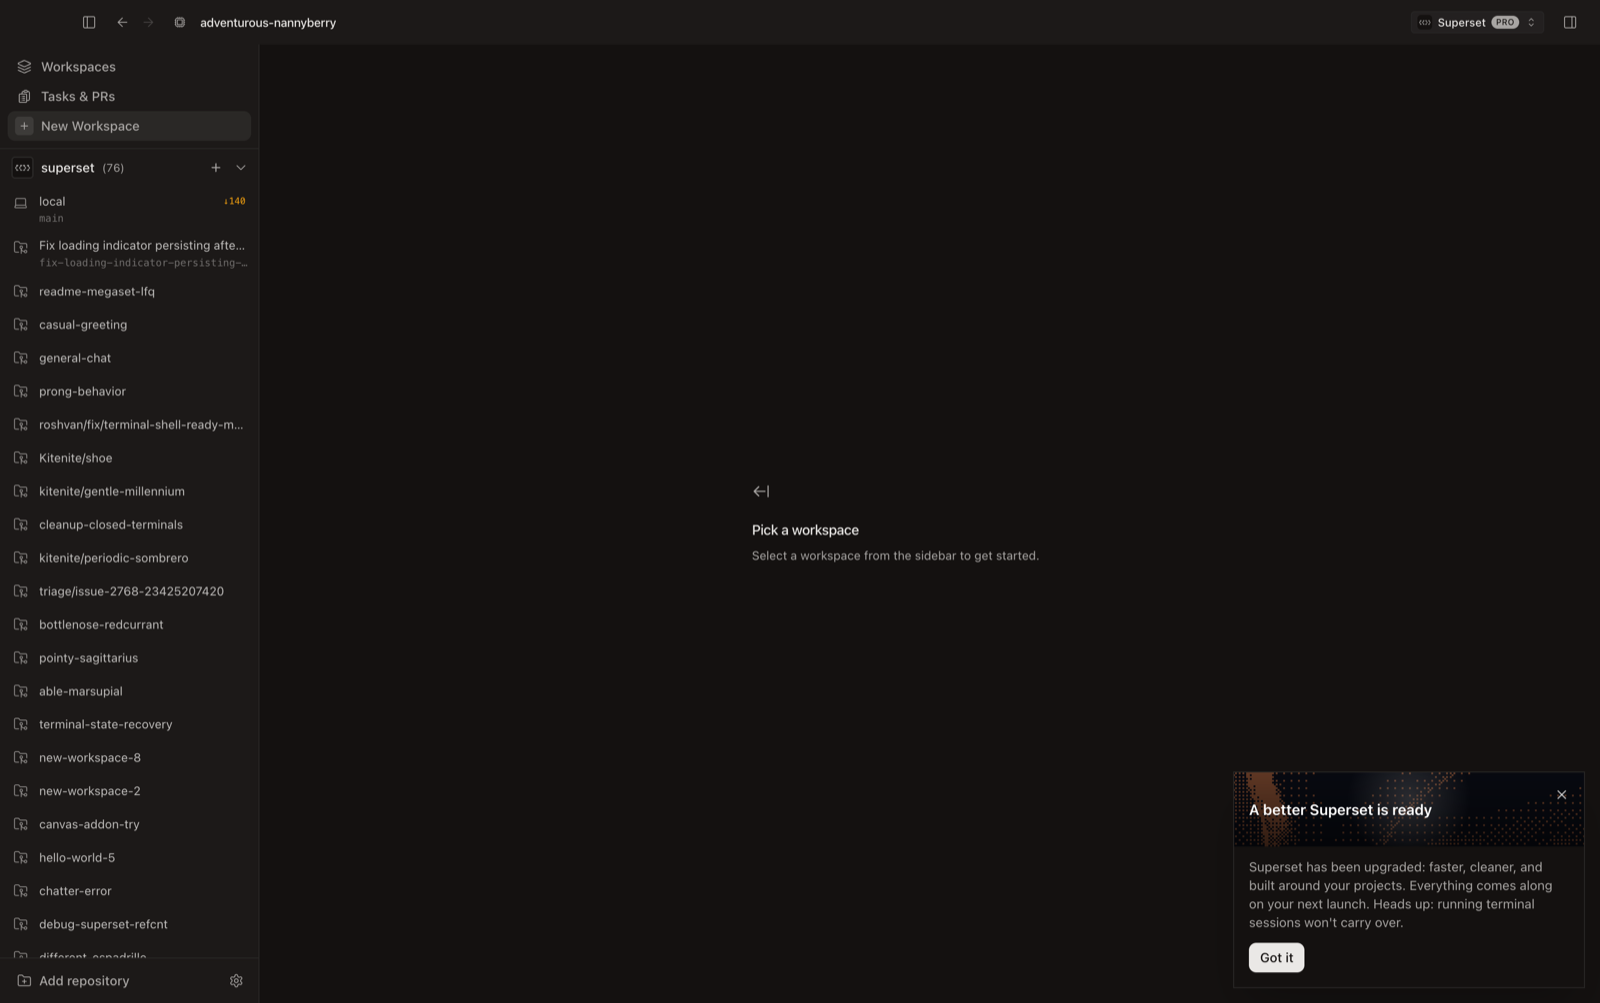
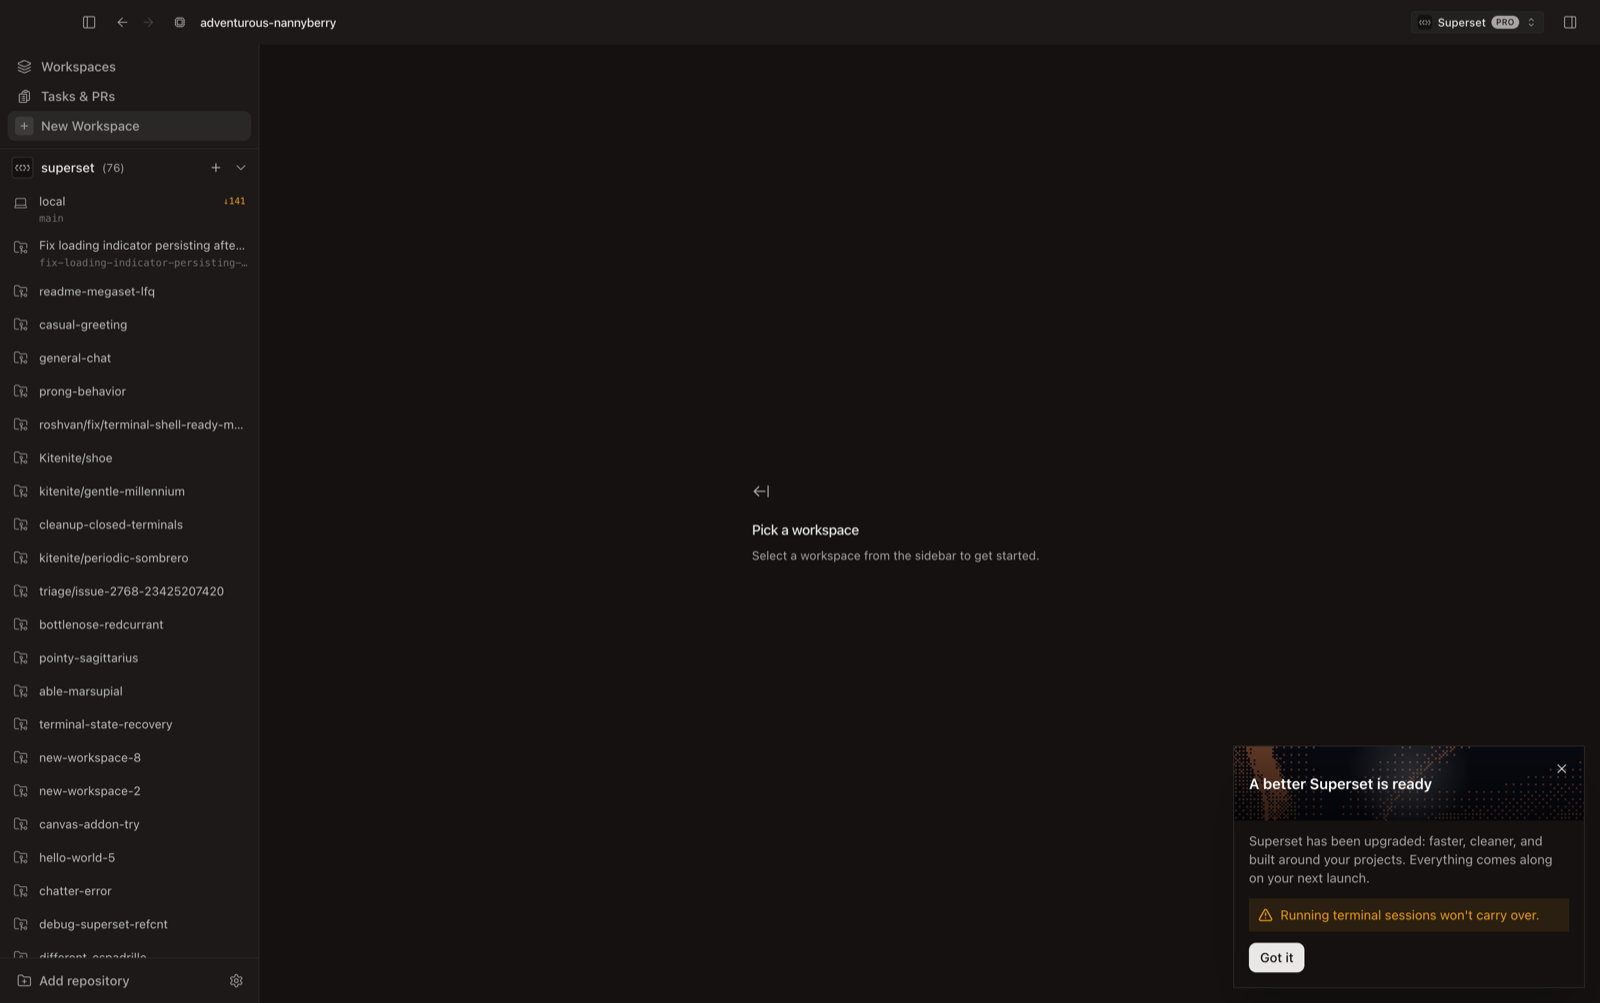
style(desktop): highlight the terminal-sessions warning as an amber callout
WorkspaceHoverCard idiom (TriangleAlert + amber-500 on amber-500/10) so
the one real caveat is impossible to miss without turning the card into
a warning dialog.

Changed region(s): [[0.75, 0.7418, 0.9688, 0.9272], [0.9688, 0.7727, 1.0, 0.8036]]

diff --git a/apps/desktop/src/renderer/routes/_authenticated/components/V1FlipNotice/components/FlipNoticeCard/FlipNoticeCard.tsx b/apps/desktop/src/renderer/routes/_authenticated/components/V1FlipNotice/components/FlipNoticeCard/FlipNoticeCard.tsx
@@ -1,5 +1,5 @@
 import { Button } from "@superset/ui/button";
-import { X } from "lucide-react";
+import { TriangleAlert, X } from "lucide-react";
 import { lazy, Suspense } from "react";
 
 const Dithering = lazy(() =>
@@ -14,6 +14,8 @@ const COVER_FRONT = "#f97316";
 interface FlipNoticeCardProps {
 	title: string;
 	body: string;
+	/** Rendered as an amber callout row (WorkspaceHoverCard idiom). */
+	warning?: string;
 	ctaLabel: string;
 	onDismiss: () => void;
 }
@@ -27,6 +29,7 @@ interface FlipNoticeCardProps {
 export function FlipNoticeCard({
 	title,
 	body,
+	warning,
 	ctaLabel,
 	onDismiss,
 }: FlipNoticeCardProps) {
@@ -61,6 +64,12 @@ export function FlipNoticeCard({
 			</div>
 			<div className="space-y-3 p-4 pt-3">
 				<p className="text-muted-foreground text-sm">{body}</p>
+				{warning ? (
+					<div className="flex items-start gap-2 bg-amber-500/10 px-2.5 py-2 text-amber-500">
+						<TriangleAlert className="mt-0.5 size-4 shrink-0" />
+						<p className="text-sm">{warning}</p>
+					</div>
+				) : null}
 				<Button size="sm" onClick={onDismiss}>
 					{ctaLabel}
 				</Button>

diff --git a/apps/desktop/src/renderer/routes/_authenticated/components/V1FlipNotice/V1FlipNotice.tsx b/apps/desktop/src/renderer/routes/_authenticated/components/V1FlipNotice/V1FlipNotice.tsx
@@ -52,7 +52,8 @@ export function V1FlipNotice() {
 	return (
 		<FlipNoticeCard
 			title="A better Superset is ready"
-			body="Superset has been upgraded: faster, cleaner, and built around your projects. Everything comes along on your next launch. Heads up: running terminal sessions won't carry over."
+			body="Superset has been upgraded: faster, cleaner, and built around your projects. Everything comes along on your next launch."
+			warning="Running terminal sessions won't carry over."
 			ctaLabel="Got it"
 			onDismiss={dismiss}
 		/>
